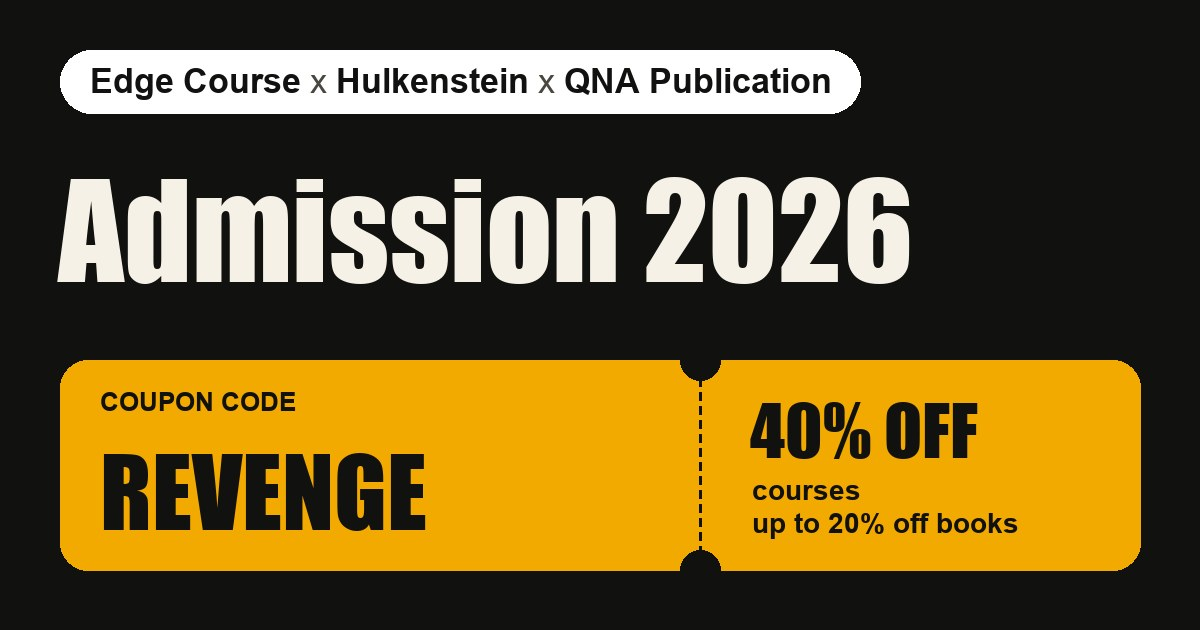
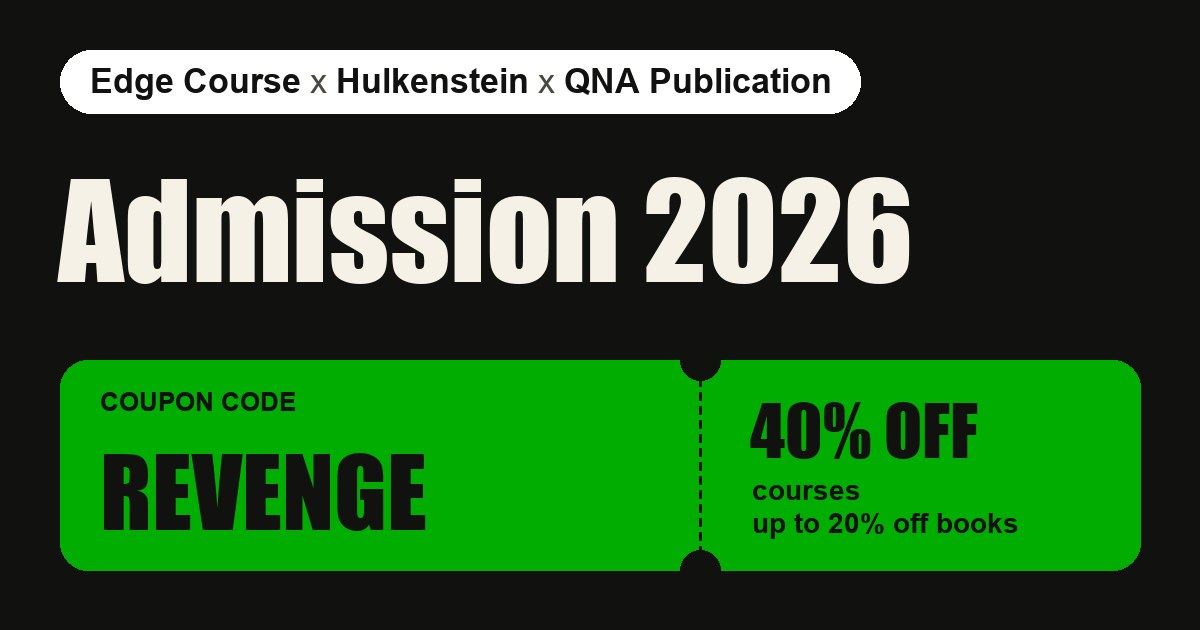
Hulkenstein green replaces saffron as the accent
The accent is now #01AD01 from the Hulkenstein logo, with a brighter
hover green and a pale copied-state green. Ink text on green measures
6.28:1. The share image is redrawn in the new colour.

Changed region(s): [[0.0308, 0.5429, 0.9558, 0.9349]]

diff --git a/assets/css/components.css b/assets/css/components.css
@@ -28,9 +28,9 @@
   transition: background-color var(--dur) var(--ease), transform var(--dur) var(--ease);
 }
 .btn:active { transform: scale(0.97); }
-.btn--primary { background: var(--color-saffron); color: var(--color-ink); }
-.btn--primary:hover { background: var(--color-saffron-bright); }
-.btn--primary.is-copied { background: var(--color-saffron-soft); }
+.btn--primary { background: var(--color-green); color: var(--color-ink); }
+.btn--primary:hover { background: var(--color-green-bright); }
+.btn--primary.is-copied { background: var(--color-green-soft); }
 .btn--ink { background: var(--color-ink); color: var(--color-on-ink); border-color: var(--color-ink); }
 .btn--paper { background: var(--color-paper); color: var(--color-ink); }
 .btn--ghost { background: transparent; color: var(--color-on-ink); border-color: var(--color-on-ink); }
@@ -68,11 +68,11 @@
   padding: 0 var(--space-3);
   border: 0;
   border-radius: var(--radius-pill);
-  background: var(--color-saffron);
+  background: var(--color-green);
   color: var(--color-ink);
   transition: background-color var(--dur) var(--ease);
 }
-.offer-bar__code.is-copied { background: var(--color-saffron-soft); }
+.offer-bar__code.is-copied { background: var(--color-green-soft); }
 .offer-bar__label { font-size: var(--text-xs); }
 .offer-bar__value { font-weight: 700; letter-spacing: 0.02em; }
 .offer-bar__ended {
@@ -201,7 +201,7 @@
 .path__art { align-self: center; justify-self: center; }
 .path__name { margin-top: var(--space-1); font-weight: 700; font-size: var(--text-l); line-height: 1.2; }
 .path__meta { font-size: var(--text-s); color: var(--color-ink-soft); line-height: 1.3; }
-.path__deal { width: fit-content; font-weight: 700; font-size: var(--text-s); line-height: 1.3; box-shadow: inset 0 -0.42em 0 var(--color-saffron); }
+.path__deal { width: fit-content; font-weight: 700; font-size: var(--text-s); line-height: 1.3; box-shadow: inset 0 -0.42em 0 var(--color-green); }
 .path__go { position: absolute; right: var(--space-3); bottom: var(--space-3); color: var(--color-ink); }
 
 .path__art--fan { position: relative; width: 100%; height: 5.75rem; }
@@ -231,13 +231,13 @@
   width: 100%;
   overflow: hidden;
   border-radius: var(--radius-m);
-  background: var(--color-saffron);
+  background: var(--color-green);
   color: var(--color-ink);
   box-shadow: 0 8px 14px -8px var(--color-shadow);
   transition: background-color var(--dur) var(--ease), transform var(--dur) var(--ease);
 }
 .ticket:active { transform: scale(0.985); }
-.ticket:has(.is-copied) { background: var(--color-saffron-soft); }
+.ticket:has(.is-copied) { background: var(--color-green-soft); }
 .ticket__main { display: flex; flex-direction: column; gap: var(--space-1); padding: var(--space-4); }
 .ticket__label { font-size: var(--text-s); }
 .ticket__code { font-weight: 700; font-size: clamp(1.75rem, 8.6vw, 3rem); line-height: 1.1; letter-spacing: 0.03em; }
@@ -367,9 +367,9 @@
   transition: background-color var(--dur) var(--ease), transform var(--dur) var(--ease);
 }
 .tab:active { transform: scale(0.97); }
-.tab[aria-selected="false"]:hover { background: var(--color-saffron-soft); }
-/* The open tab: saffron fill, flat, with a notch pointing down into the list. */
-.tab[aria-selected="true"] { background: var(--color-saffron); box-shadow: none; }
+.tab[aria-selected="false"]:hover { background: var(--color-green-soft); }
+/* The open tab: green fill, flat, with a notch pointing down into the list. */
+.tab[aria-selected="true"] { background: var(--color-green); box-shadow: none; }
 .tab[aria-selected="true"]::after {
   content: "";
   position: absolute;
@@ -380,10 +380,10 @@
   border-top: 0.625rem solid var(--color-ink);
   border-bottom: 0;
 }
-.tab__badge { display: grid; place-items: center; flex: none; width: 1.75rem; height: 1.75rem; border-radius: 50%; background: var(--color-saffron); }
+.tab__badge { display: grid; place-items: center; flex: none; width: 1.75rem; height: 1.75rem; border-radius: 50%; background: var(--color-green); }
 .tab[aria-selected="true"] .tab__badge { background: var(--color-ink); }
 .tab__icon { width: 1.125rem; height: 1.125rem; color: var(--color-ink); }
-.tab[aria-selected="true"] .tab__icon { color: var(--color-saffron); }
+.tab[aria-selected="true"] .tab__icon { color: var(--color-green); }
 .tab__text { display: flex; align-items: center; white-space: nowrap; }
 .tab__verb { display: inline-flex; align-items: center; gap: 0.125rem; margin-inline-start: 0.25em; }
 .tab__go { width: 0.9375rem; height: 0.9375rem; }
@@ -401,7 +401,7 @@
   white-space: nowrap;
   transition: background-color var(--dur) var(--ease), color var(--dur) var(--ease);
 }
-.chip[aria-pressed="true"] { background: var(--color-saffron); border-color: var(--color-ink); color: var(--color-ink); }
+.chip[aria-pressed="true"] { background: var(--color-green); border-color: var(--color-ink); color: var(--color-ink); }
 
 .panel { padding-top: var(--space-3); }
 .shop { padding-bottom: calc(var(--space-7) + var(--edge-h)); }
@@ -418,7 +418,7 @@
 .proof__note { position: relative; z-index: 1; margin-bottom: var(--space-3); font-size: var(--text-s); color: var(--color-on-ink-soft); }
 .proof__list { position: relative; z-index: 1; display: grid; grid-template-columns: repeat(3, minmax(0, 1fr)); gap: var(--space-3); }
 .proof__item { font-size: var(--text-xs); line-height: 1.35; }
-.proof__item b { display: block; font-weight: 700; font-size: clamp(1.125rem, 5.2vw, 1.5rem); line-height: 1.15; color: var(--color-saffron); }
+.proof__item b { display: block; font-weight: 700; font-size: clamp(1.125rem, 5.2vw, 1.5rem); line-height: 1.15; color: var(--color-green); }
 
 /* ---------- grids ---------- */
 .grid { display: grid; gap: var(--space-4); scroll-margin-top: var(--shop-bar-h); }
@@ -463,7 +463,7 @@
   width: 0.5rem;
   height: 2px;
   margin-top: 0.8em;
-  background: var(--color-saffron);
+  background: var(--color-green);
 }
 .course-card__price { display: grid; gap: var(--space-1); margin-top: auto; padding-top: var(--space-2); }
 .course-card__now { display: flex; flex-wrap: wrap; align-items: baseline; gap: 0 var(--space-2); }
@@ -471,7 +471,7 @@
 .course-card__coupon { font-weight: 700; font-size: var(--text-xl); line-height: 1.2; color: var(--color-ink); }
 .course-card__was { display: flex; flex-wrap: wrap; align-items: center; gap: var(--space-1) var(--space-2); }
 .course-card__regular { color: var(--color-ink-soft); font-size: var(--text-base); }
-.course-card__pill { padding: 0 var(--space-2); border-radius: var(--radius-pill); background: var(--color-saffron); color: var(--color-ink); font-size: var(--text-xs); font-weight: 700; line-height: 1.6; }
+.course-card__pill { padding: 0 var(--space-2); border-radius: var(--radius-pill); background: var(--color-green); color: var(--color-ink); font-size: var(--text-xs); font-weight: 700; line-height: 1.6; }
 .course-card__howto { font-size: var(--text-s); color: var(--color-ink-soft); }
 .course-card__howto b { color: var(--color-ink); letter-spacing: 0.02em; }
 .offer-ended .course-card__regular { text-decoration: none; font-weight: 700; font-size: var(--text-l); color: var(--color-ink); }
@@ -485,7 +485,7 @@
   min-height: 3rem;
   padding: var(--space-2) var(--space-4);
   border-radius: var(--radius-pill);
-  background: var(--color-saffron);
+  background: var(--color-green);
   color: var(--color-ink);
   font-weight: 700;
   line-height: 1.3;
@@ -494,7 +494,7 @@
   transition: background-color var(--dur) var(--ease);
 }
 .course-card:hover .course-card__cta,
-.book-card:hover .book-card__cta { background: var(--color-saffron-bright); }
+.book-card:hover .book-card__cta { background: var(--color-green-bright); }
 /* The link's ::after stretches over the whole card, so the card is one tap target. */
 .course-card__cta::after,
 .book-card__cta::after,
@@ -558,13 +558,13 @@
   padding: var(--space-2) var(--space-4);
   border: 2px solid var(--color-ink);
   border-radius: var(--radius-m);
-  background: var(--color-saffron-soft);
+  background: var(--color-green-soft);
   color: var(--color-ink);
   font-weight: 700;
   line-height: 1.3;
   text-decoration: none;
 }
-.list-prompt:hover { background: var(--color-saffron); }
+.list-prompt:hover { background: var(--color-green); }
 .list-prompt__go { display: inline-flex; align-items: center; gap: var(--space-1); flex: none; }
 
 /* ---------- end-of-list hand-off: the way to the other tab ---------- */
@@ -578,13 +578,13 @@
   padding: var(--space-4);
   border: 2px solid var(--color-ink);
   border-radius: var(--radius-m);
-  background: var(--color-saffron);
+  background: var(--color-green);
   color: var(--color-ink);
   text-decoration: none;
   box-shadow: 0 8px 14px -8px var(--color-shadow);
   transition: transform var(--dur) var(--ease), background-color var(--dur) var(--ease);
 }
-.handoff:hover { background: var(--color-saffron-bright); }
+.handoff:hover { background: var(--color-green-bright); }
 .handoff:active { transform: scale(0.985); }
 .handoff__art { position: relative; width: 100%; height: 5.75rem; }
 .handoff__text { display: grid; gap: var(--space-1); }
@@ -615,7 +615,7 @@
   font-weight: 700;
   font-size: 2.5rem;
   line-height: 1;
-  color: var(--color-saffron);
+  color: var(--color-green);
 }
 .steps__title { font-size: var(--text-m); }
 .steps__text { color: var(--color-on-ink-soft); }
@@ -648,7 +648,7 @@
 .faq__q::after { content: "+"; flex: none; font-size: var(--text-l); color: var(--color-ink); }
 .faq__item[open] .faq__q::after { content: "−"; }
 .faq__a { padding-bottom: var(--space-4); color: var(--color-ink-soft); }
-.link { display: inline-flex; align-items: center; min-height: var(--tap); font-weight: 700; color: var(--color-ink); text-decoration: underline; text-decoration-color: var(--color-saffron); text-decoration-thickness: 0.18em; text-underline-offset: 0.18em; }
+.link { display: inline-flex; align-items: center; min-height: var(--tap); font-weight: 700; color: var(--color-ink); text-decoration: underline; text-decoration-color: var(--color-green); text-decoration-thickness: 0.18em; text-underline-offset: 0.18em; }
 
 /* ---------- footer ---------- */
 .site-footer { padding-block: var(--space-7) calc(var(--space-6) + env(safe-area-inset-bottom, 0px)); background: var(--color-ink); color: var(--color-on-ink); }
@@ -690,7 +690,7 @@
   padding: var(--space-3) var(--space-4);
   border: 2px solid var(--color-ink);
   border-radius: var(--radius-m);
-  background: var(--color-saffron);
+  background: var(--color-green);
   color: var(--color-ink);
   font-weight: 700;
   text-align: center;
@@ -717,7 +717,7 @@
 .copy-toast__input {
   min-height: var(--tap);
   padding: 0 var(--space-3);
-  border: 2px solid var(--color-saffron);
+  border: 2px solid var(--color-green);
   border-radius: var(--radius-s);
   background: var(--color-paper);
   color: var(--color-ink);
@@ -736,4 +736,4 @@
 }
 
 /* ---------- noscript ---------- */
-.noscript { display: grid; justify-items: start; gap: var(--space-3); padding: var(--space-5) var(--gutter); background: var(--color-saffron-soft); }
+.noscript { display: grid; justify-items: start; gap: var(--space-3); padding: var(--space-5) var(--gutter); background: var(--color-green-soft); }

diff --git a/assets/css/tokens.css b/assets/css/tokens.css
@@ -1,15 +1,15 @@
-/* Hallmark · custom · theme ink-and-saffron · genre editorial · Kona (QNA Font) one family · signature the coupon as a perforated saffron slip, courses and books as two equal paths · hero: custom, headline left and two path tiles with the coupon slip right on a flat ink field · nav: none, a sticky offer bar and a brand strip · footer: ink band, brand name over phone and site link */
-/* Hallmark · critique · the orange and green pairing read as a clash on a phone; this build keeps one accent, saffron, on near-black and warm paper, so the coupon and the tabs are the only bright things */
+/* Hallmark · custom · theme ink-and-green · genre editorial · Kona (QNA Font) one family · signature the coupon as a perforated green slip, courses and books as two equal paths · hero: custom, headline left and two path tiles with the coupon slip right on a flat ink field · nav: none, a sticky offer bar and a brand strip · footer: ink band, brand name over phone and site link */
+/* Hallmark · critique · the orange and green pairing read as a clash on a phone; this build keeps one accent, green, on near-black and warm paper, so the coupon and the tabs are the only bright things */
 /* Hallmark · waive 26b · no form control and no aria-disabled in index.html · the page has only buttons and links, so a disabled state would never show */
 /* Hallmark · waive 83 · the shop is a catalogue of the owner's own course posters and book covers · the pictures are the products on sale, so each one must show */
 /* Hallmark · waive 44c · stamp declares a custom hero with the path tiles and slip as its visual · the large atom vector behind the hero is decoration, so the measured visual is the wrong element */
 /* Hallmark · answered F25 · the course poster image already prints the same highlight lines, so the phone row drops the duplicate text list */
-/* Hallmark · dismissed F4 · the saffron button recipe is one style reused on course cards, book cards, tabs and the sticky bar, and the ink button appears only in the no-script fallback */
+/* Hallmark · dismissed F4 · the green button recipe is one style reused on course cards, book cards, tabs and the sticky bar, and the ink button appears only in the no-script fallback */
 /* Hallmark · dismissed 58 · the screen at that depth is the FAQ, four short answers a visitor opens one at a time */
 /* Design tokens only. Change colours, type and spacing here. */
 
 :root {
-  /* palette: near-black ink, warm paper, white cards, one accent (saffron) */
+  /* palette: near-black ink, warm paper, white cards, one accent (green) */
   --color-ink: #111110;
   --color-charcoal: #2A2A27;
   --color-ink-soft: #4A4741;
@@ -19,11 +19,11 @@
   --color-line: #D6CCB8;
   --color-on-ink: #F6F1E7;
   --color-on-ink-soft: #CFC7B6;
-  --color-saffron: #F2A900;
-  --color-saffron-bright: #FFBE1F;
-  --color-saffron-soft: #FFE7A3;
+  --color-green: #01AD01;
+  --color-green-bright: #1FC21F;
+  --color-green-soft: #D6F5D1;
   --color-focus: #111110;
-  --color-focus-on-dark: #F2A900;
+  --color-focus-on-dark: #01AD01;
   --color-shadow: rgba(17, 17, 16, 0.22);
 
   /* background vectors: low contrast, light lines on dark chapters, dark lines on light ones */

diff --git a/assets/css/base.css b/assets/css/base.css
@@ -44,7 +44,7 @@ a { color: inherit; }
   border-radius: var(--radius-s);
 }
 
-::selection { background: var(--color-saffron); color: var(--color-ink); }
+::selection { background: var(--color-green); color: var(--color-ink); }
 
 .container {
   position: relative;

diff --git a/scripts/make-image.py b/scripts/make-image.py
@@ -34,7 +34,7 @@ OG_FONTS = {
     "regular": ["C:/Windows/Fonts/arial.ttf", "/System/Library/Fonts/Supplemental/Arial.ttf",
                 "/usr/share/fonts/truetype/dejavu/DejaVuSans.ttf", "/usr/share/fonts/dejavu/DejaVuSans.ttf"],
 }
-SAFFRON, INK, CREAM, WHITE, GREY = "#F2A900", "#111110", "#F6F1E7", "#FFFFFF", "#4A4741"
+GREEN, INK, CREAM, WHITE, GREY = "#01AD01", "#111110", "#F6F1E7", "#FFFFFF", "#4A4741"
 
 
 def save_course(img: Image.Image, item_id: str) -> None:
@@ -105,7 +105,7 @@ def save_og() -> None:
     d.text((58, 282), "Admission 2026", font=font("display", 130), fill=CREAM, anchor="ls")
 
     # Coupon ticket with a perforated divider and two notches
-    d.rounded_rectangle((60, 360, 1140, 570), radius=28, fill=SAFFRON)
+    d.rounded_rectangle((60, 360, 1140, 570), radius=28, fill=GREEN)
     d.text((100, 402), "COUPON CODE", font=font("bold", 26), fill=INK, anchor="lm")
     d.text((100, 530), offer["code"], font=font("display", 96), fill=INK, anchor="ls")
     for y in range(378, 552, 14):

diff --git a/README.md b/README.md
@@ -56,13 +56,13 @@ The whole page is set in one family, Kona (the QNA Font), regular and bold, from
 
 Kona is licensed under the SIL Open Font License 1.1. `assets/fonts/Kona-OFL.txt` is that licence and must be uploaded with the font files (`validate.mjs` and `stage.mjs` allow exactly that one `.txt`). Kona descends from Kalpurush (OmicronLab) for Bengali and Liberation Serif for Latin; the licence file names both. The footer names it only as "QNA Font"; never show "Kona" to visitors.
 
-Colours are CSS custom properties in `assets/css/tokens.css`: near-black ink, warm paper, white cards and one accent, saffron. Saffron is only a fill, a mark or an underline, never text on a light background.
+Colours are CSS custom properties in `assets/css/tokens.css`: near-black ink, warm paper, white cards and one accent, green. Green is only a fill, a mark or an underline, never text on a light background.
 
 ### Page order and shop tabs
 
 The page runs top to bottom as: offer bar, hero, free guideline lives, shop, how to use the coupon, FAQ, footer. The shop has two ARIA tabs, courses and books, and one list shows at a time. Links to `#courses` and `#books` select the right tab and scroll to it (changing tab on the page also updates the hash, so a shared or reloaded URL opens the same tab), so an ad can point at `https://edgecoursebd.com/admission26/#books`. The hero's two path tiles and the sticky bottom bar use the same links.
 
-The two hero tiles each show a fan of three pictures. Which ones is set by `FEATURED` at the bottom of `catalog.js` (item ids; the middle one sits in front). The same fans appear on the hand-off card at the end of each list ("এবার QNA-র বইগুলো দেখো" after the courses, "কোর্সগুলো দেখো" after the books). Those cards are plain links to `#books` and `#courses`, so they use the same tab switching as every other link. The two tabs are saffron buttons with an icon; the open one turns ink with a saffron underline.
+The two hero tiles each show a fan of three pictures. Which ones is set by `FEATURED` at the bottom of `catalog.js` (item ids; the middle one sits in front). The same fans appear on the hand-off card at the end of each list ("এবার QNA-র বইগুলো দেখো" after the courses, "কোর্সগুলো দেখো" after the books). Those cards are plain links to `#books` and `#courses`, so they use the same tab switching as every other link. The two tabs are green buttons with an icon; the open one turns ink with a green underline.
 
 Every outbound link opens in a new tab. This is set in one place, `setLink()` in `assets/js/cards.js`; `buildLink()` in `assets/js/links.js` vets the URL first.
 

diff --git a/CLAUDE.md b/CLAUDE.md
@@ -6,7 +6,7 @@ A static Bangla landing page for the Edge Course / Hulkenstein Admission 26 cour
 
 ## Stack
 
-Plain HTML, CSS and ES modules. No build step, no dependencies, no server code, no forms. One font family, Kona (QNA Font, SIL OFL 1.1): `assets/fonts/Kona-OFL.txt` must ship with the woff2 files. One accent colour, saffron, on ink and paper; all colours live in `assets/css/tokens.css`. Meta Pixel and GTM load only if their IDs are set in `assets/js/config.js`.
+Plain HTML, CSS and ES modules. No build step, no dependencies, no server code, no forms. One font family, Kona (QNA Font, SIL OFL 1.1): `assets/fonts/Kona-OFL.txt` must ship with the woff2 files. One accent colour, green, on ink and paper; all colours live in `assets/css/tokens.css`. Meta Pixel and GTM load only if their IDs are set in `assets/js/config.js`.
 
 ## Commands
 

diff --git a/HANDOFF.md b/HANDOFF.md
@@ -77,6 +77,7 @@ The Admission 26 landing page for Edge Course / Hulkenstein courses and QNA Publ
   - A Bangla Rokomari button.
 - Rejected from the council: English digits for percentages (owner rule), and moving live links down (owner request).
 - Left for the owner: per-course Bangla descriptions, and a real Android test in the Facebook browser.
+- Accent colour changed from saffron to Hulkenstein green #01AD01 (sampled from the logo) at the owner's request. Tokens are `--color-green*`. Ink text on green is 6.28:1. Green is never used as text on a light background. Share image redrawn. Browser-tab icon is the Hulkenstein arms-and-brain mark.
 
 ## Playbook section 16 checklist (static page)
 

diff --git a/PRODUCT.md b/PRODUCT.md
@@ -32,7 +32,7 @@ No invented proof: no student counts for courses, ratings, testimonials or "popu
 
 ## Brand Commitments
 
-The owner chose ink and saffron as the page palette and rejected the orange and green pairing of the two logos. The font is QNA Font (Kona). Bangla-first copy in a native HSC register.
+The owner chose ink and green as the page palette and rejected the orange and green pairing of the two logos. The font is QNA Font (Kona). Bangla-first copy in a native HSC register.
 
 ## Evidence on Hand
 
